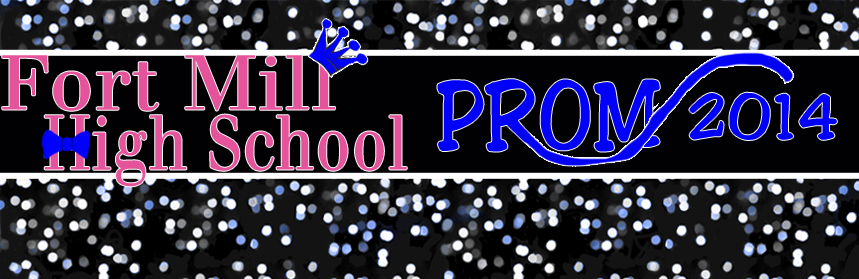
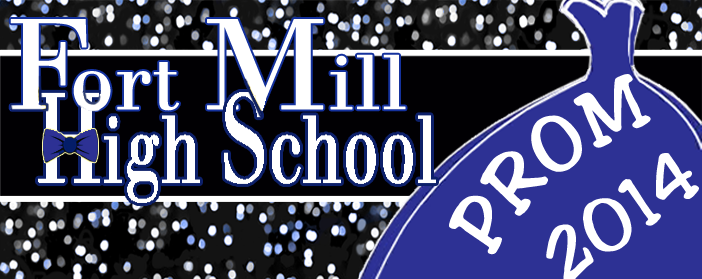
couple of more fixes

diff --git a/stylesheet.css b/stylesheet.css
@@ -27,7 +27,7 @@
   border: 4px solid #FFFFFF;
   border-radius: 5px;
   width: 50%;
-  height: 40%;	
+	
 }
 
 

diff --git a/index.php b/index.php
@@ -44,15 +44,14 @@ THIS WEB APP IS OPEN SOURCE. CREATED BY: DAVID JOHNSON*/
     <center>
       <div id="wrap">
 	<div id="header">
-	  <img src="img/logo.png" alt="logo" width="25%">
+	  <img src="img/PromBanner.png" width="100%">
 	</div>
 	<br>
 	<br>
 	<br>
 	<div id="main">
 	  <div id="mainForm">
-	  <img src="img/PromBanner.png" width="100%">
-	  <form method="POST" action="index.php">
+	    <form method="POST" action="index.php">
 	      <br>
 	      <br>
 	      <br>
